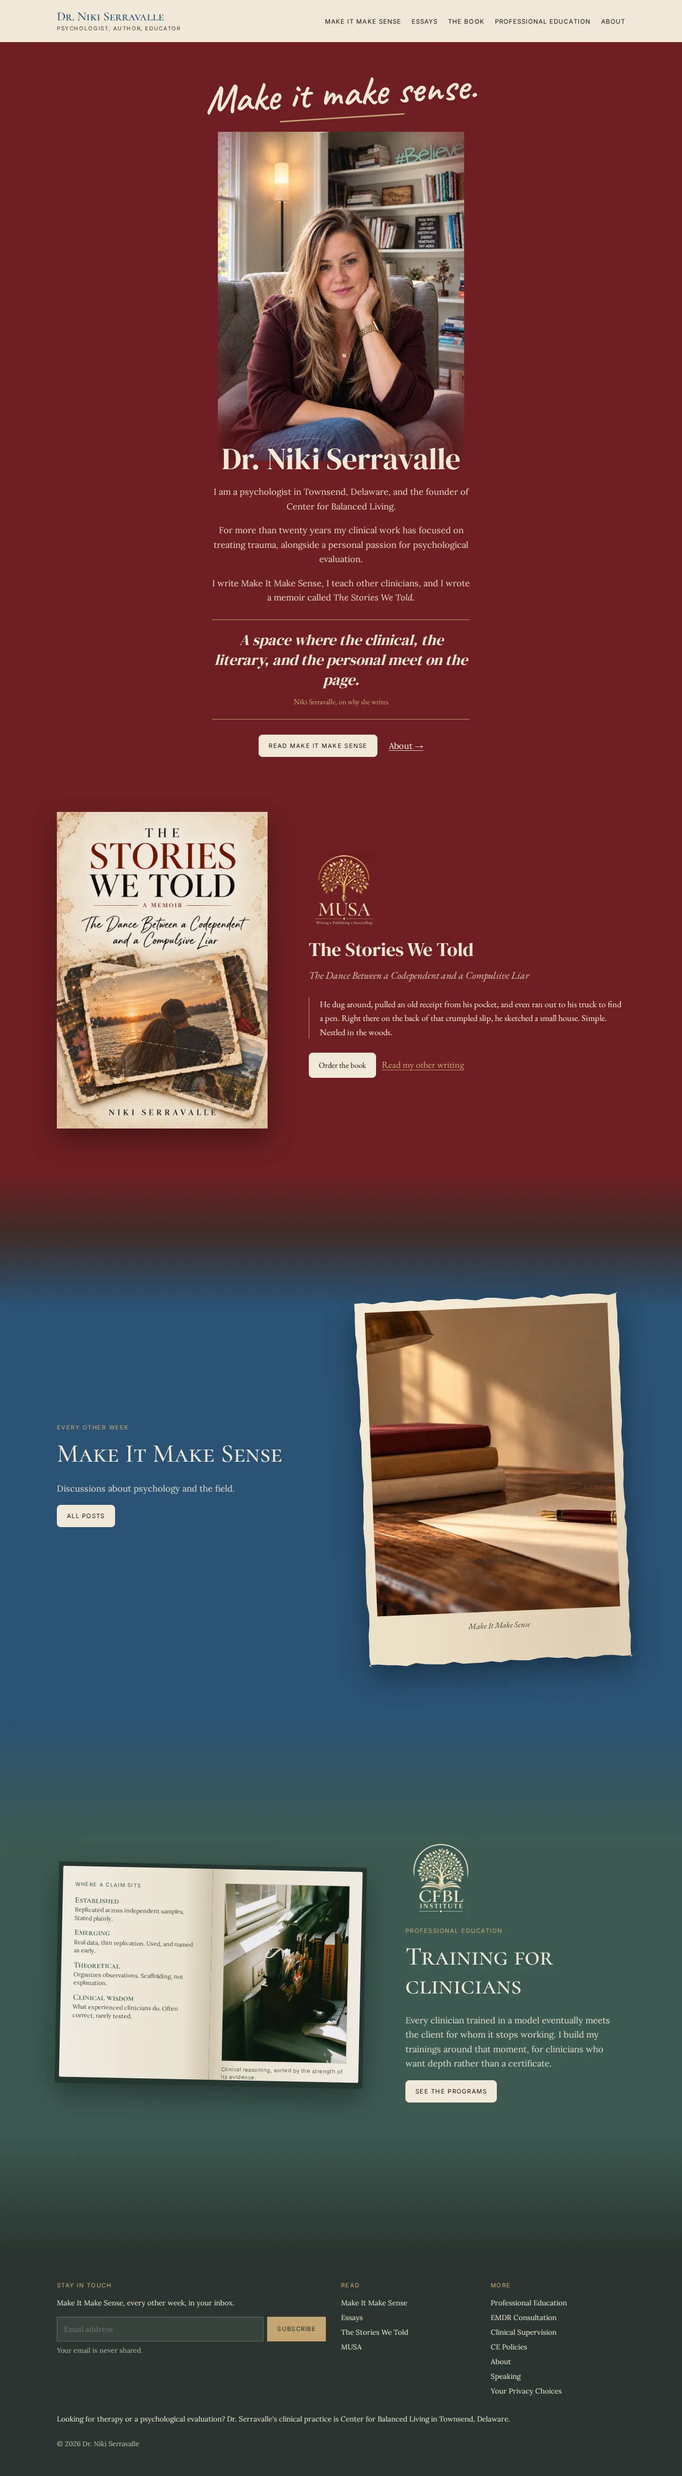
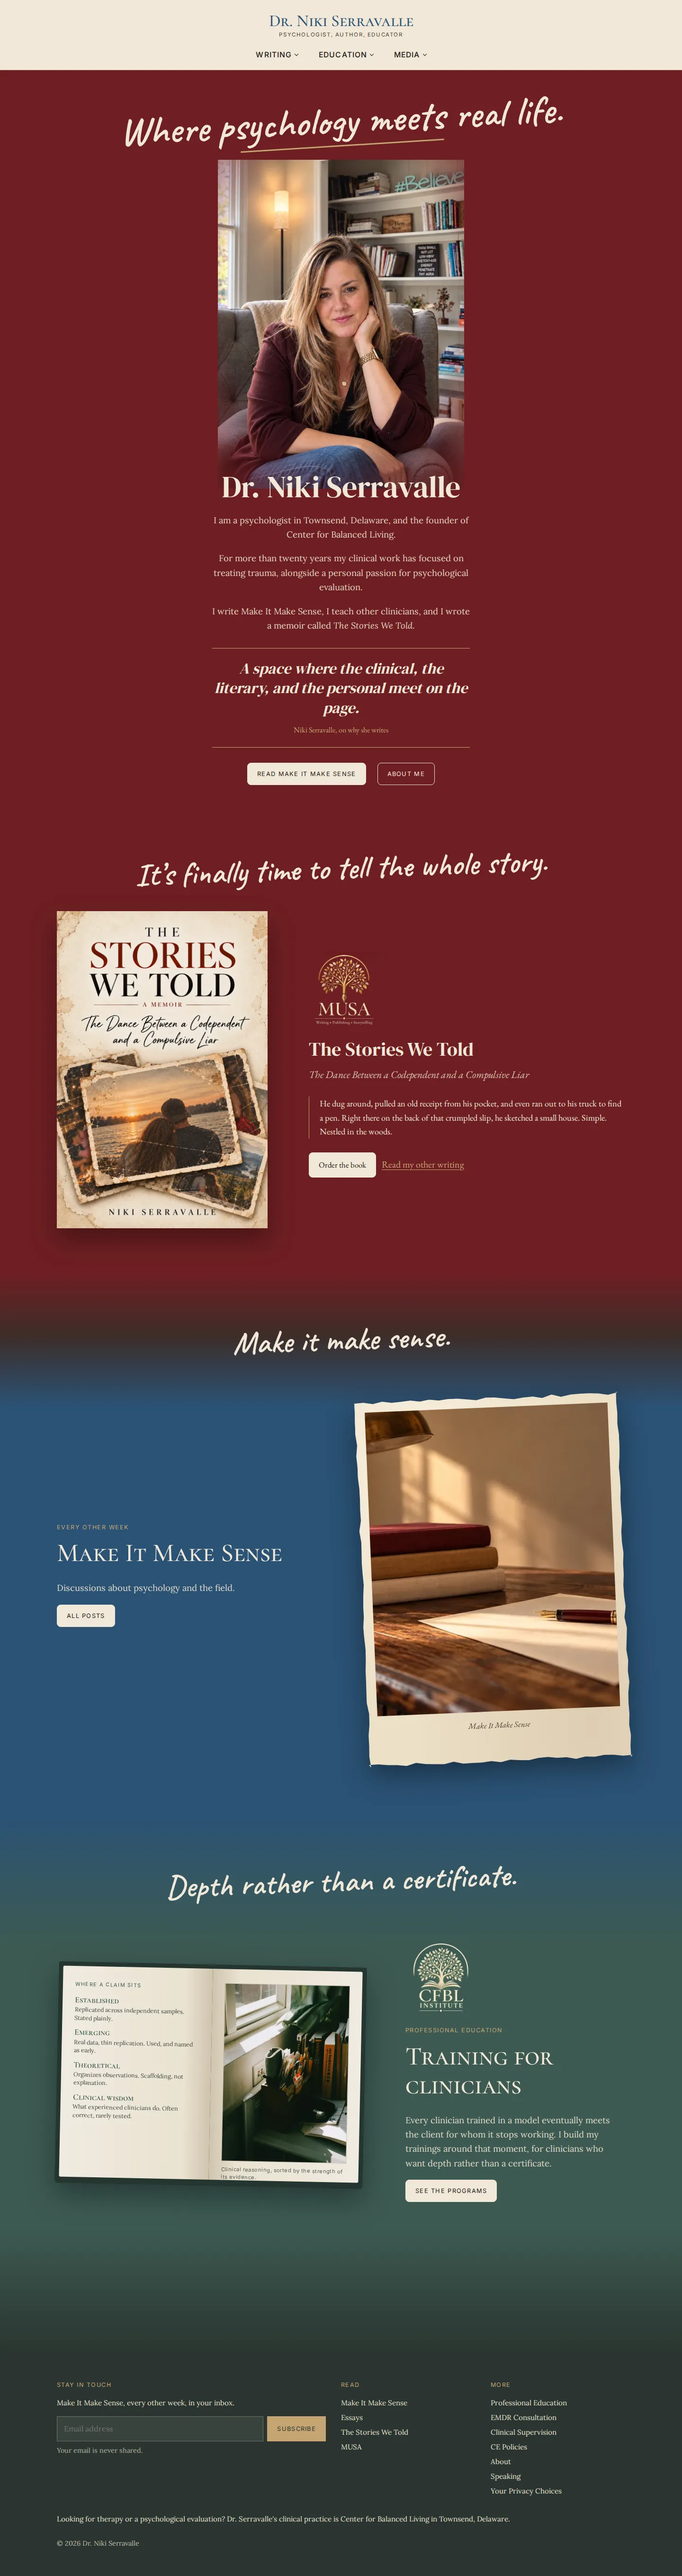
drserravalle theme: a handwritten line above every home section
Claude-Session: https://claude.ai/code/session_01PNTKRciZknXhVWVEiJrrtz

diff --git a/drserravalle/theme/assets/drs.css b/drserravalle/theme/assets/drs.css
@@ -558,3 +558,12 @@ p { margin: 0 0 1.1em; }
 }
 /* About me as a second button under the bio */
 .intro__links .btn--ghost { background: transparent; border-color: var(--bone); color: var(--bone); }
+
+/* A handwritten line opens every section (Niki, 14 Nov). On the bands it sits in
+   the fade between two colors. Same hand as the intro hook. */
+.band { position: relative; }
+.band__hook, .book__hook { font-family: "Caveat", "Segoe Script", cursive; font-weight: 600; font-size: clamp(2.5rem, 5.6vw, 4.2rem); line-height: 1.05; color: var(--bone); text-align: center; margin: 0; padding: 0 16px; transform: rotate(-2deg); }
+.band__hook { position: absolute; top: 104px; left: 0; right: 0; }
+.book__hook { padding-top: 8px; margin-bottom: 56px; }
+.blk.book-band { padding-top: 40px; }
+@media (max-width: 860px) { .band__hook { top: 76px; } .book__hook { margin-bottom: 36px; } }
